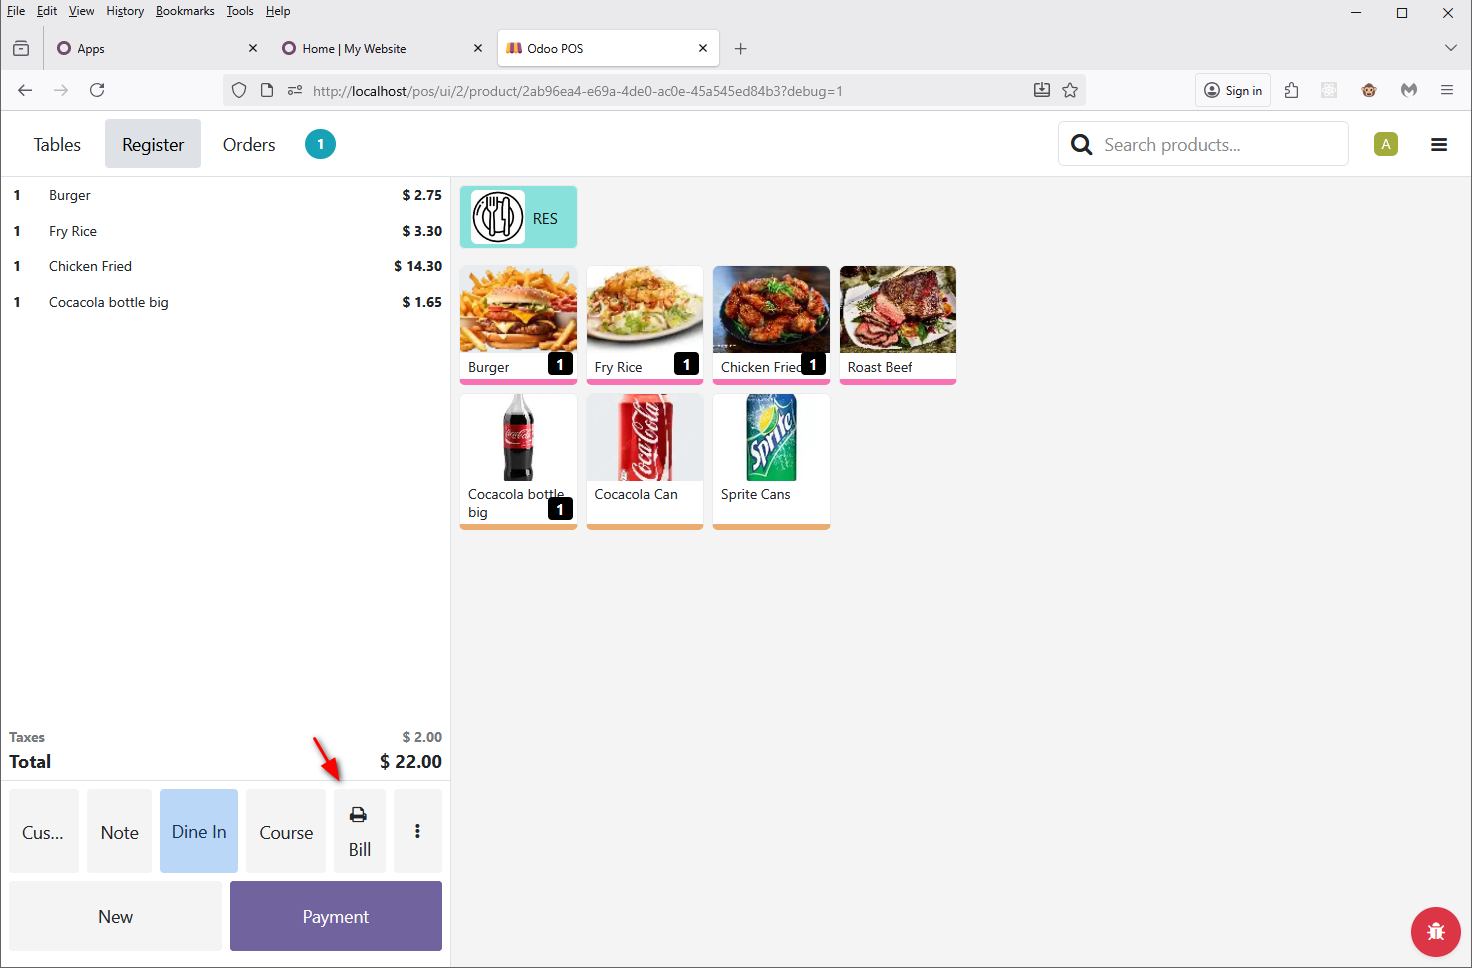
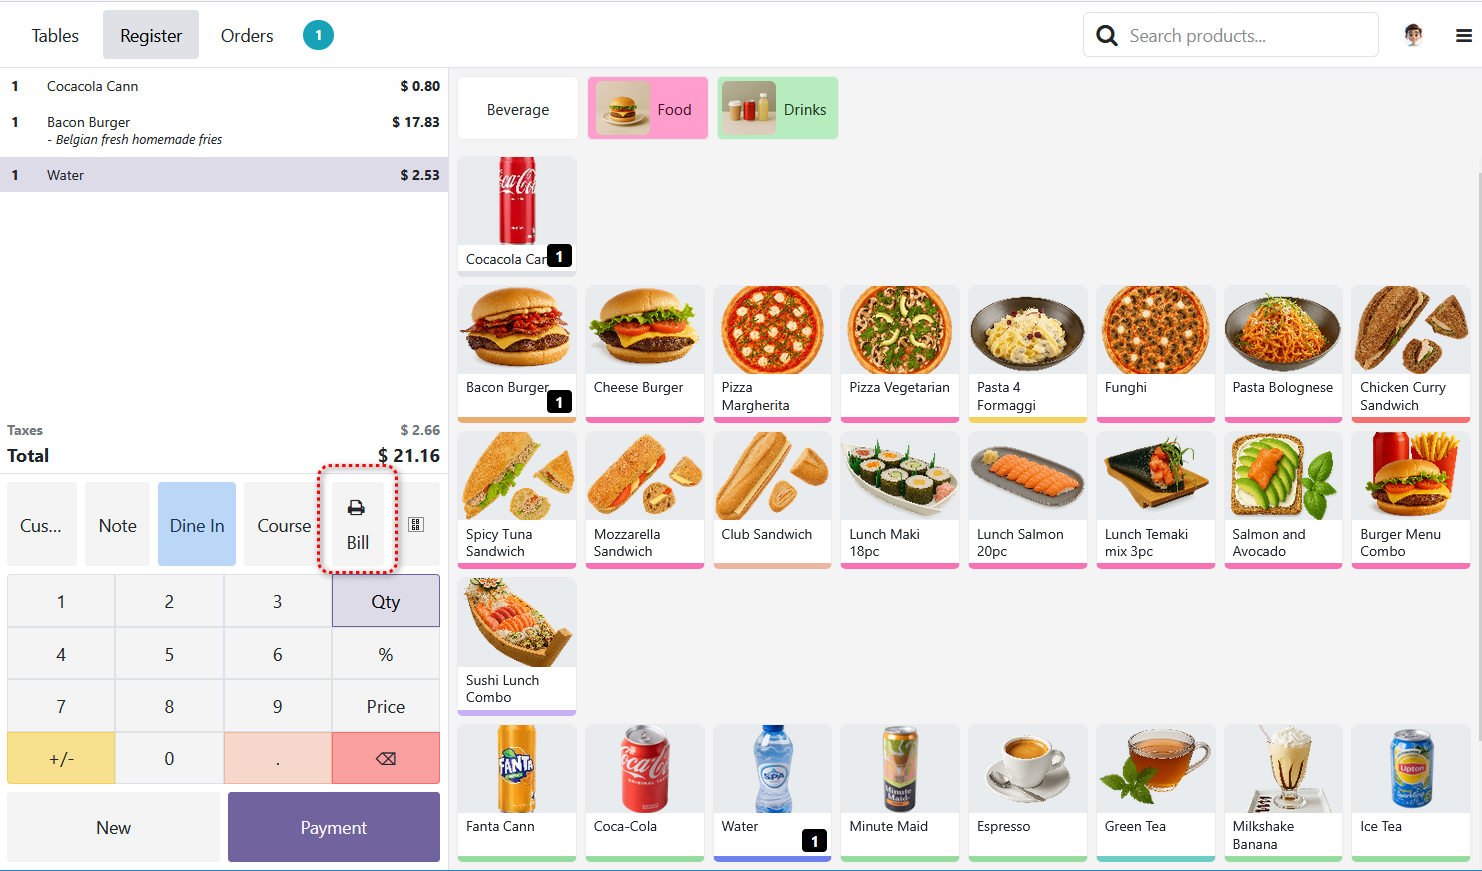
up

diff --git a/vitou_pos_print_bill/__manifest__.py b/vitou_pos_print_bill/__manifest__.py
@@ -1,9 +1,9 @@
 # -*- coding: utf-8 -*-
 {
     'name': "POS Print Bill Button",
-    'author': 'Ream Vitou',
-    'website': 'https://odoo.com',
-    'maintainer': 'Ream Vitou',
+    'author': 'V Technologies',
+     'website': 'https://apps.odoo.com/apps/modules/browse?search=vitou',
+     'maintainer': 'V Technologies',
     'version': '19.0.1.1.1',
     'category': 'Point of Sale',
     'sequence': 75,
